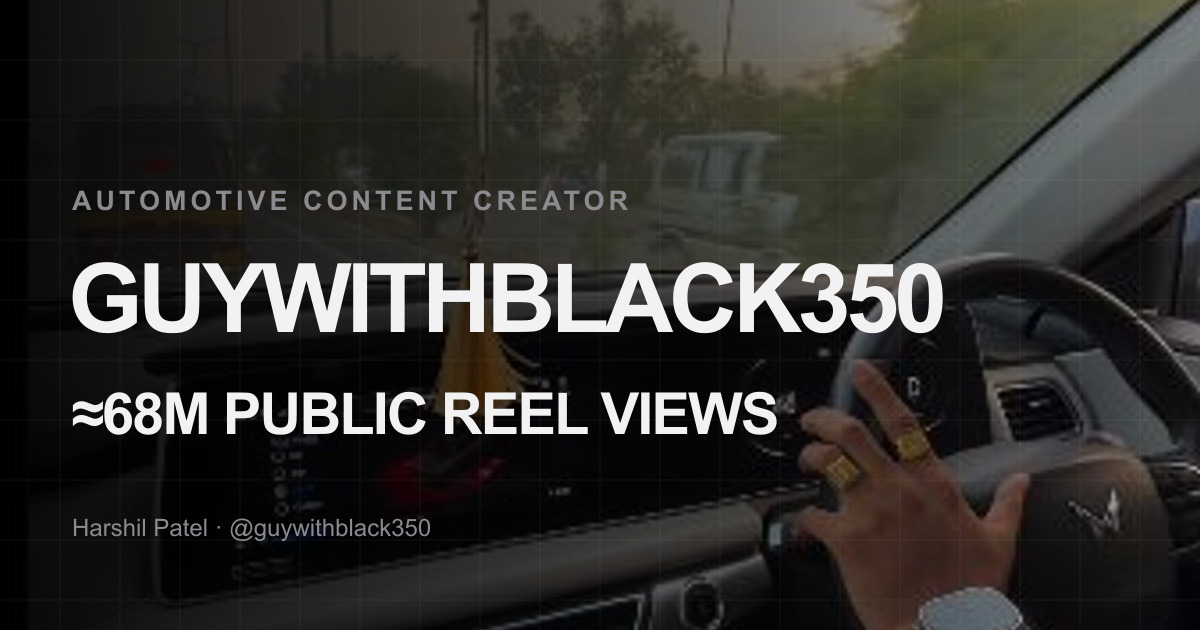
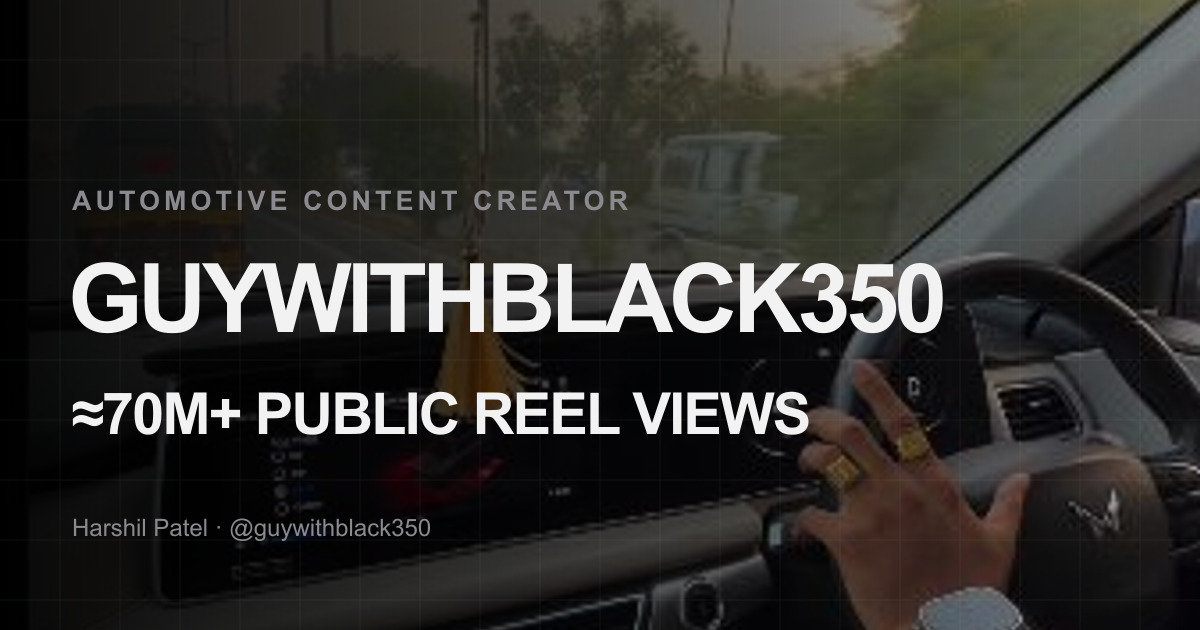
feat(creative): update aggregate public reel views metric to 70M+

Changed region(s): [[0.0617, 0.6032, 0.6783, 0.6937]]

diff --git a/src/components/Creative/CreatorImpact.jsx b/src/components/Creative/CreatorImpact.jsx
@@ -74,16 +74,16 @@ export default function CreatorImpact({ sectionRef, snapshot, status }) {
                 </div>
                 <div
                   className="mt-8 inline-flex items-baseline whitespace-nowrap font-heading text-[clamp(68px,12vw,175px)] font-bold leading-[0.8] text-text-bright"
-                  aria-label="Approximately 68 million public reel views"
+                  aria-label="Approximately 70 million+ public reel views"
                 >
                   <span aria-hidden="true" className="mr-[0.04em] font-normal text-text-muted">≈</span>
-                  <span aria-hidden="true" className="tracking-[-0.075em]"><AnimatedValue target={68} suffix="M" /></span>
+                  <span aria-hidden="true" className="tracking-[-0.075em]"><AnimatedValue target={70} suffix="M+" /></span>
                 </div>
               </div>
 
               <div className="mt-10 border-t border-white/10 pt-6">
                 <p className="m-0 max-w-xl text-sm leading-relaxed text-text-muted md:text-base">
-                  Calculated from every accessible public reel count. Instagram reports rounded compact figures, yielding a defensible window of <strong className="font-semibold text-text">66.2M – 69.2M</strong> total impressions.
+                  Calculated from every accessible public reel count. Instagram reports rounded compact figures, yielding a defensible window of <strong className="font-semibold text-text">68M – 72M+</strong> total impressions.
                 </p>
               </div>
             </div>

diff --git a/src/pages/Creative.jsx b/src/pages/Creative.jsx
@@ -12,7 +12,7 @@ import {
 } from '../data/instagram';
 import useSEO from '../utils/useSEO';
 
-const creativeDescription = 'Harshil Patel’s automotive creator portfolio as @guywithblack350: approximately 68M public Instagram reel views, top-performing reels, and brand collaborations.';
+const creativeDescription = 'Harshil Patel’s automotive creator portfolio as @guywithblack350: approximately 70M+ public Instagram reel views, top-performing reels, and brand collaborations.';
 
 const creativeJsonLd = {
   '@context': 'https://schema.org',
@@ -39,7 +39,7 @@ const creativeJsonLd = {
       alternateName: ['Guy With Black 350', 'guywithblack350', '@guywithblack350'],
       url: 'https://www.harshilpatel.co.in/creative',
       image: 'https://www.harshilpatel.co.in/creative-og.jpg',
-      description: 'Automotive content creator behind @guywithblack350, with approximately 68 million public Instagram reel views.',
+      description: 'Automotive content creator behind @guywithblack350, with approximately 70 million+ public Instagram reel views.',
       sameAs: [
         'https://www.instagram.com/guywithblack350/',
         'https://www.instagram.com/harshil_3105_/',

diff --git a/index.html b/index.html
@@ -122,7 +122,7 @@
     <noscript id="page-content">
       <div style="max-width:720px;margin:80px auto;padding:24px;font-family:system-ui,sans-serif;color:#f2f2f3;background:#0a0a0b">
         <h1>Harshil Patel — Software Engineer at IIIT Vadodara</h1>
-        <p>Software engineer and B.Tech student at IIIT Vadodara. Builds production web apps, mobile apps, and AI tools. Content creator <a href="https://www.instagram.com/guywithblack350/" style="color:#ddd">@guywithblack350</a> with approximately 68M public reel views.</p>
+        <p>Software engineer and B.Tech student at IIIT Vadodara. Builds production web apps, mobile apps, and AI tools. Content creator <a href="https://www.instagram.com/guywithblack350/" style="color:#ddd">@guywithblack350</a> with approximately 70M+ public reel views.</p>
         <h2>Projects</h2>
         <ul>
           <li><strong>PayMatrix</strong> — AI-powered group expense &amp; debt settlement platform</li>

diff --git a/src/components/Creative/CreativeHero.jsx b/src/components/Creative/CreativeHero.jsx
@@ -176,7 +176,7 @@ export default function CreativeHero({ instagramHandle, instagramUrl }) {
             <div className="mt-2.5 flex items-center gap-2 font-mono text-[9px] uppercase tracking-[0.16em] text-white/50 md:text-[10px]">
               <span className="inline-flex items-center gap-1.5 font-semibold text-white/80">
                 <span className="size-1.5 rounded-full bg-emerald-400 shadow-[0_0_6px_rgba(52,211,153,0.8)]" />
-                68M+ Views
+                70M+ Views
               </span>
               <span className="text-white/20" aria-hidden="true">/</span>
               <span>Automotive Cinema</span>
